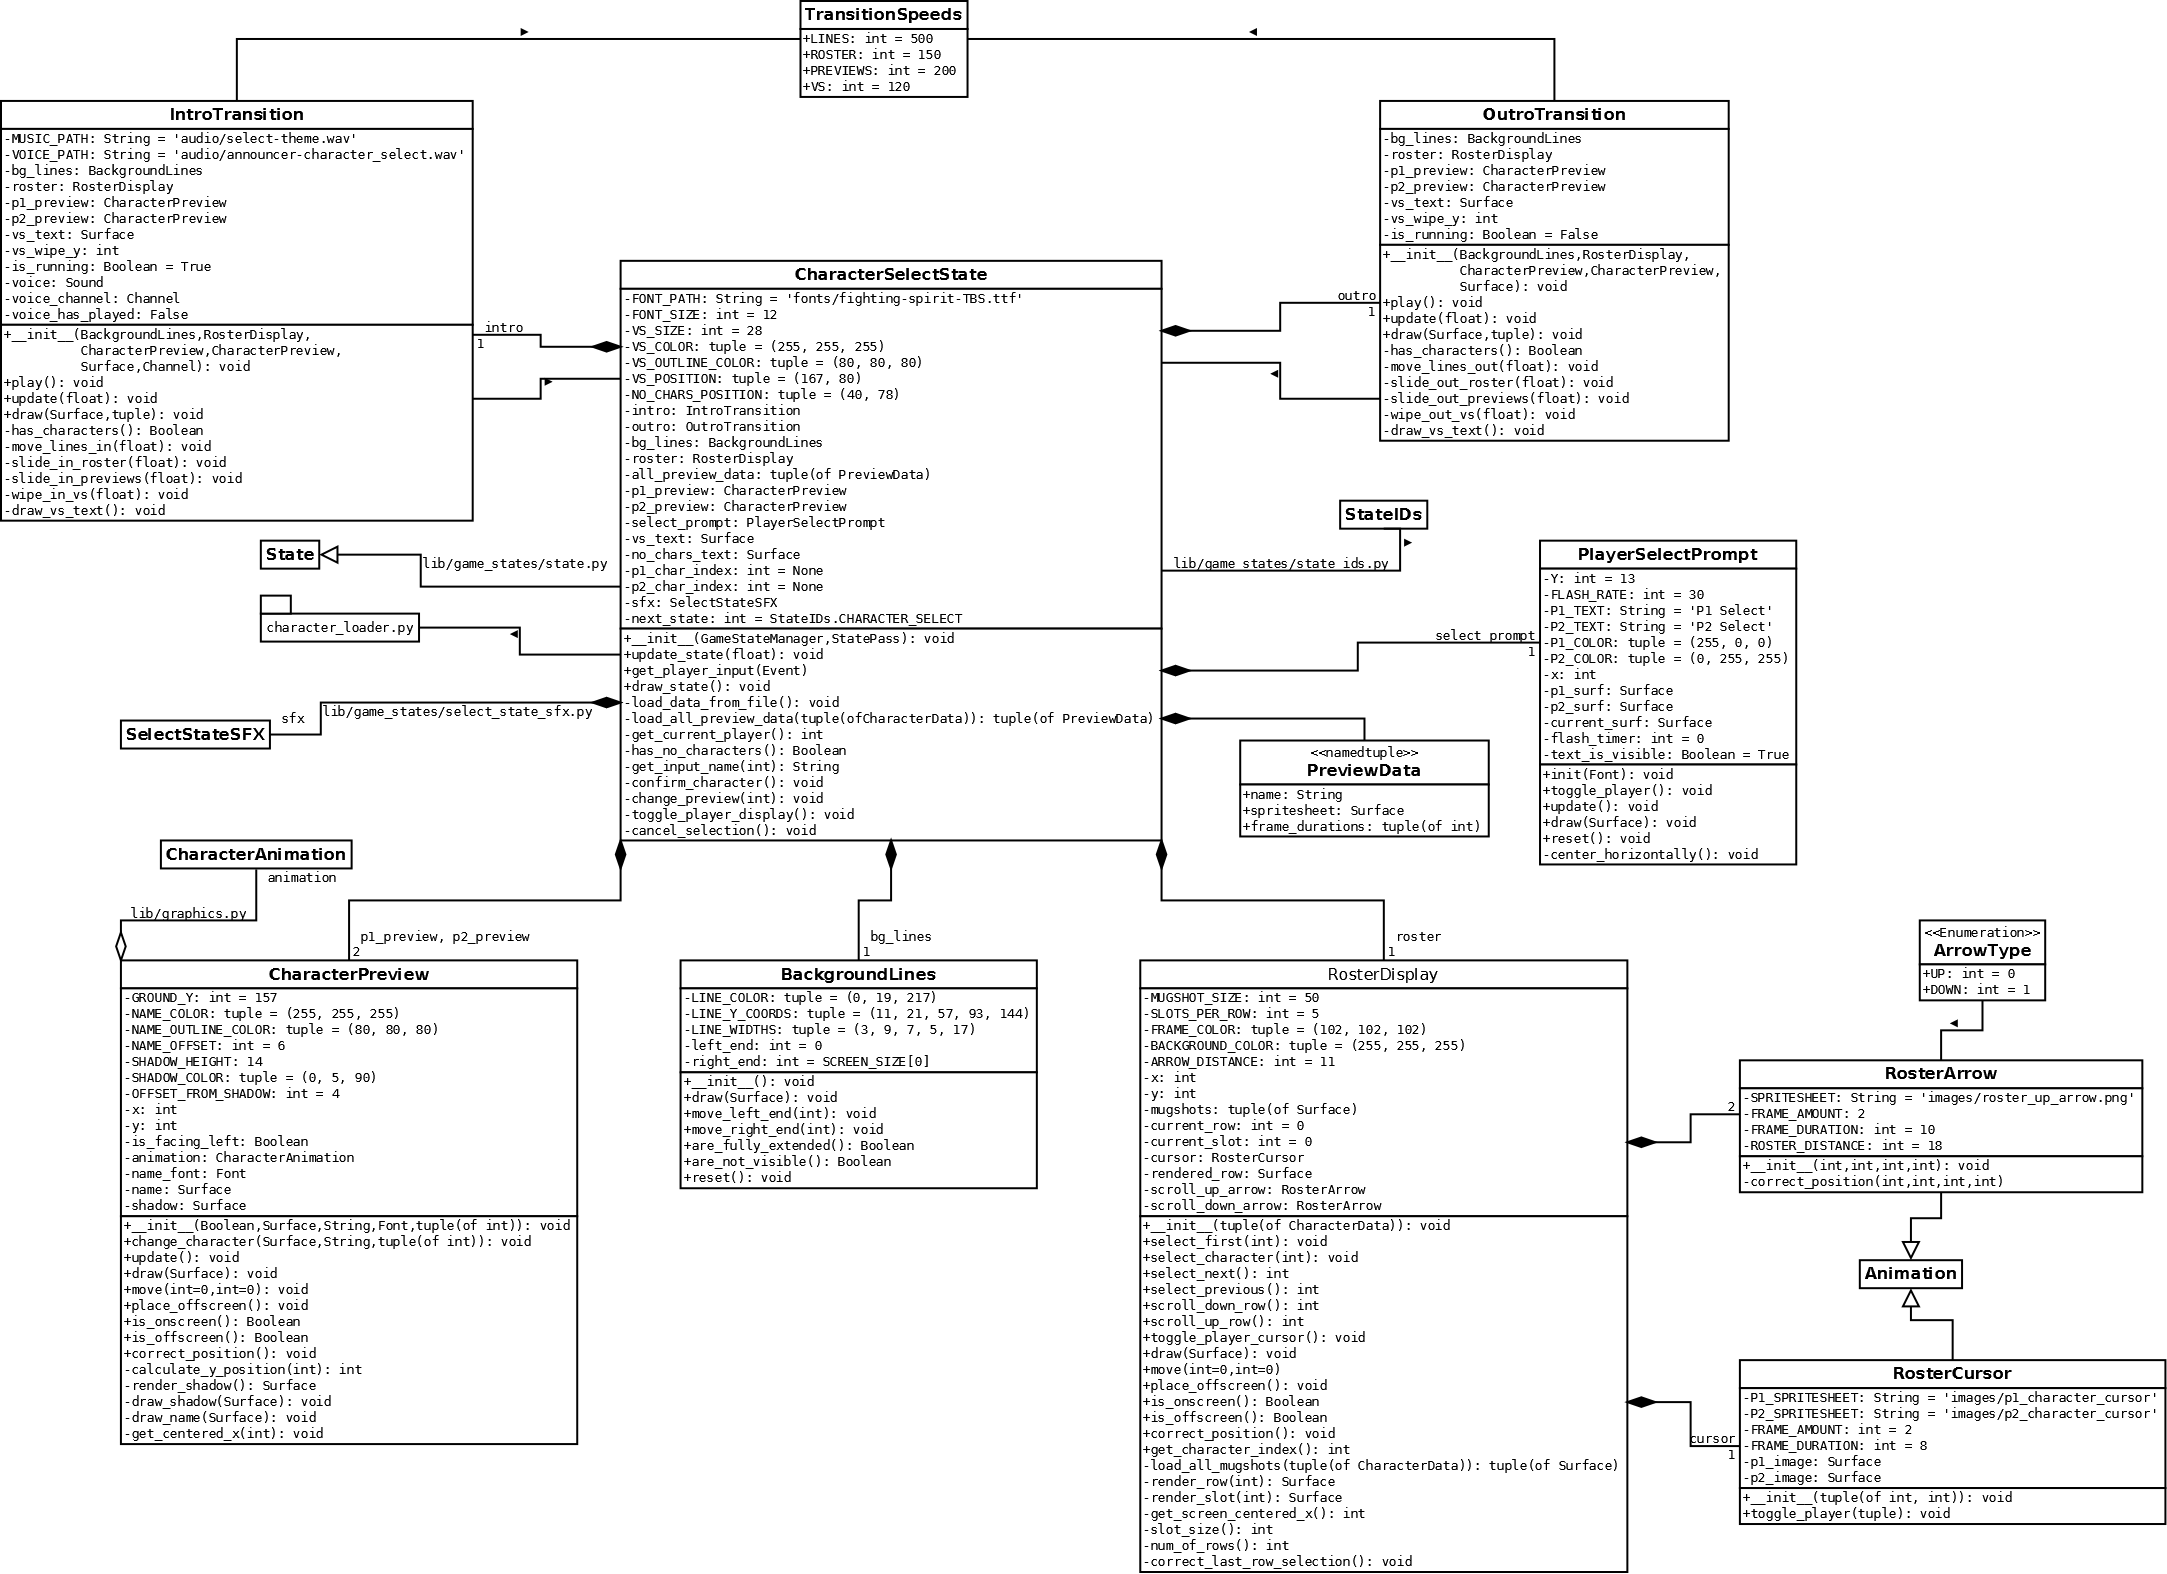
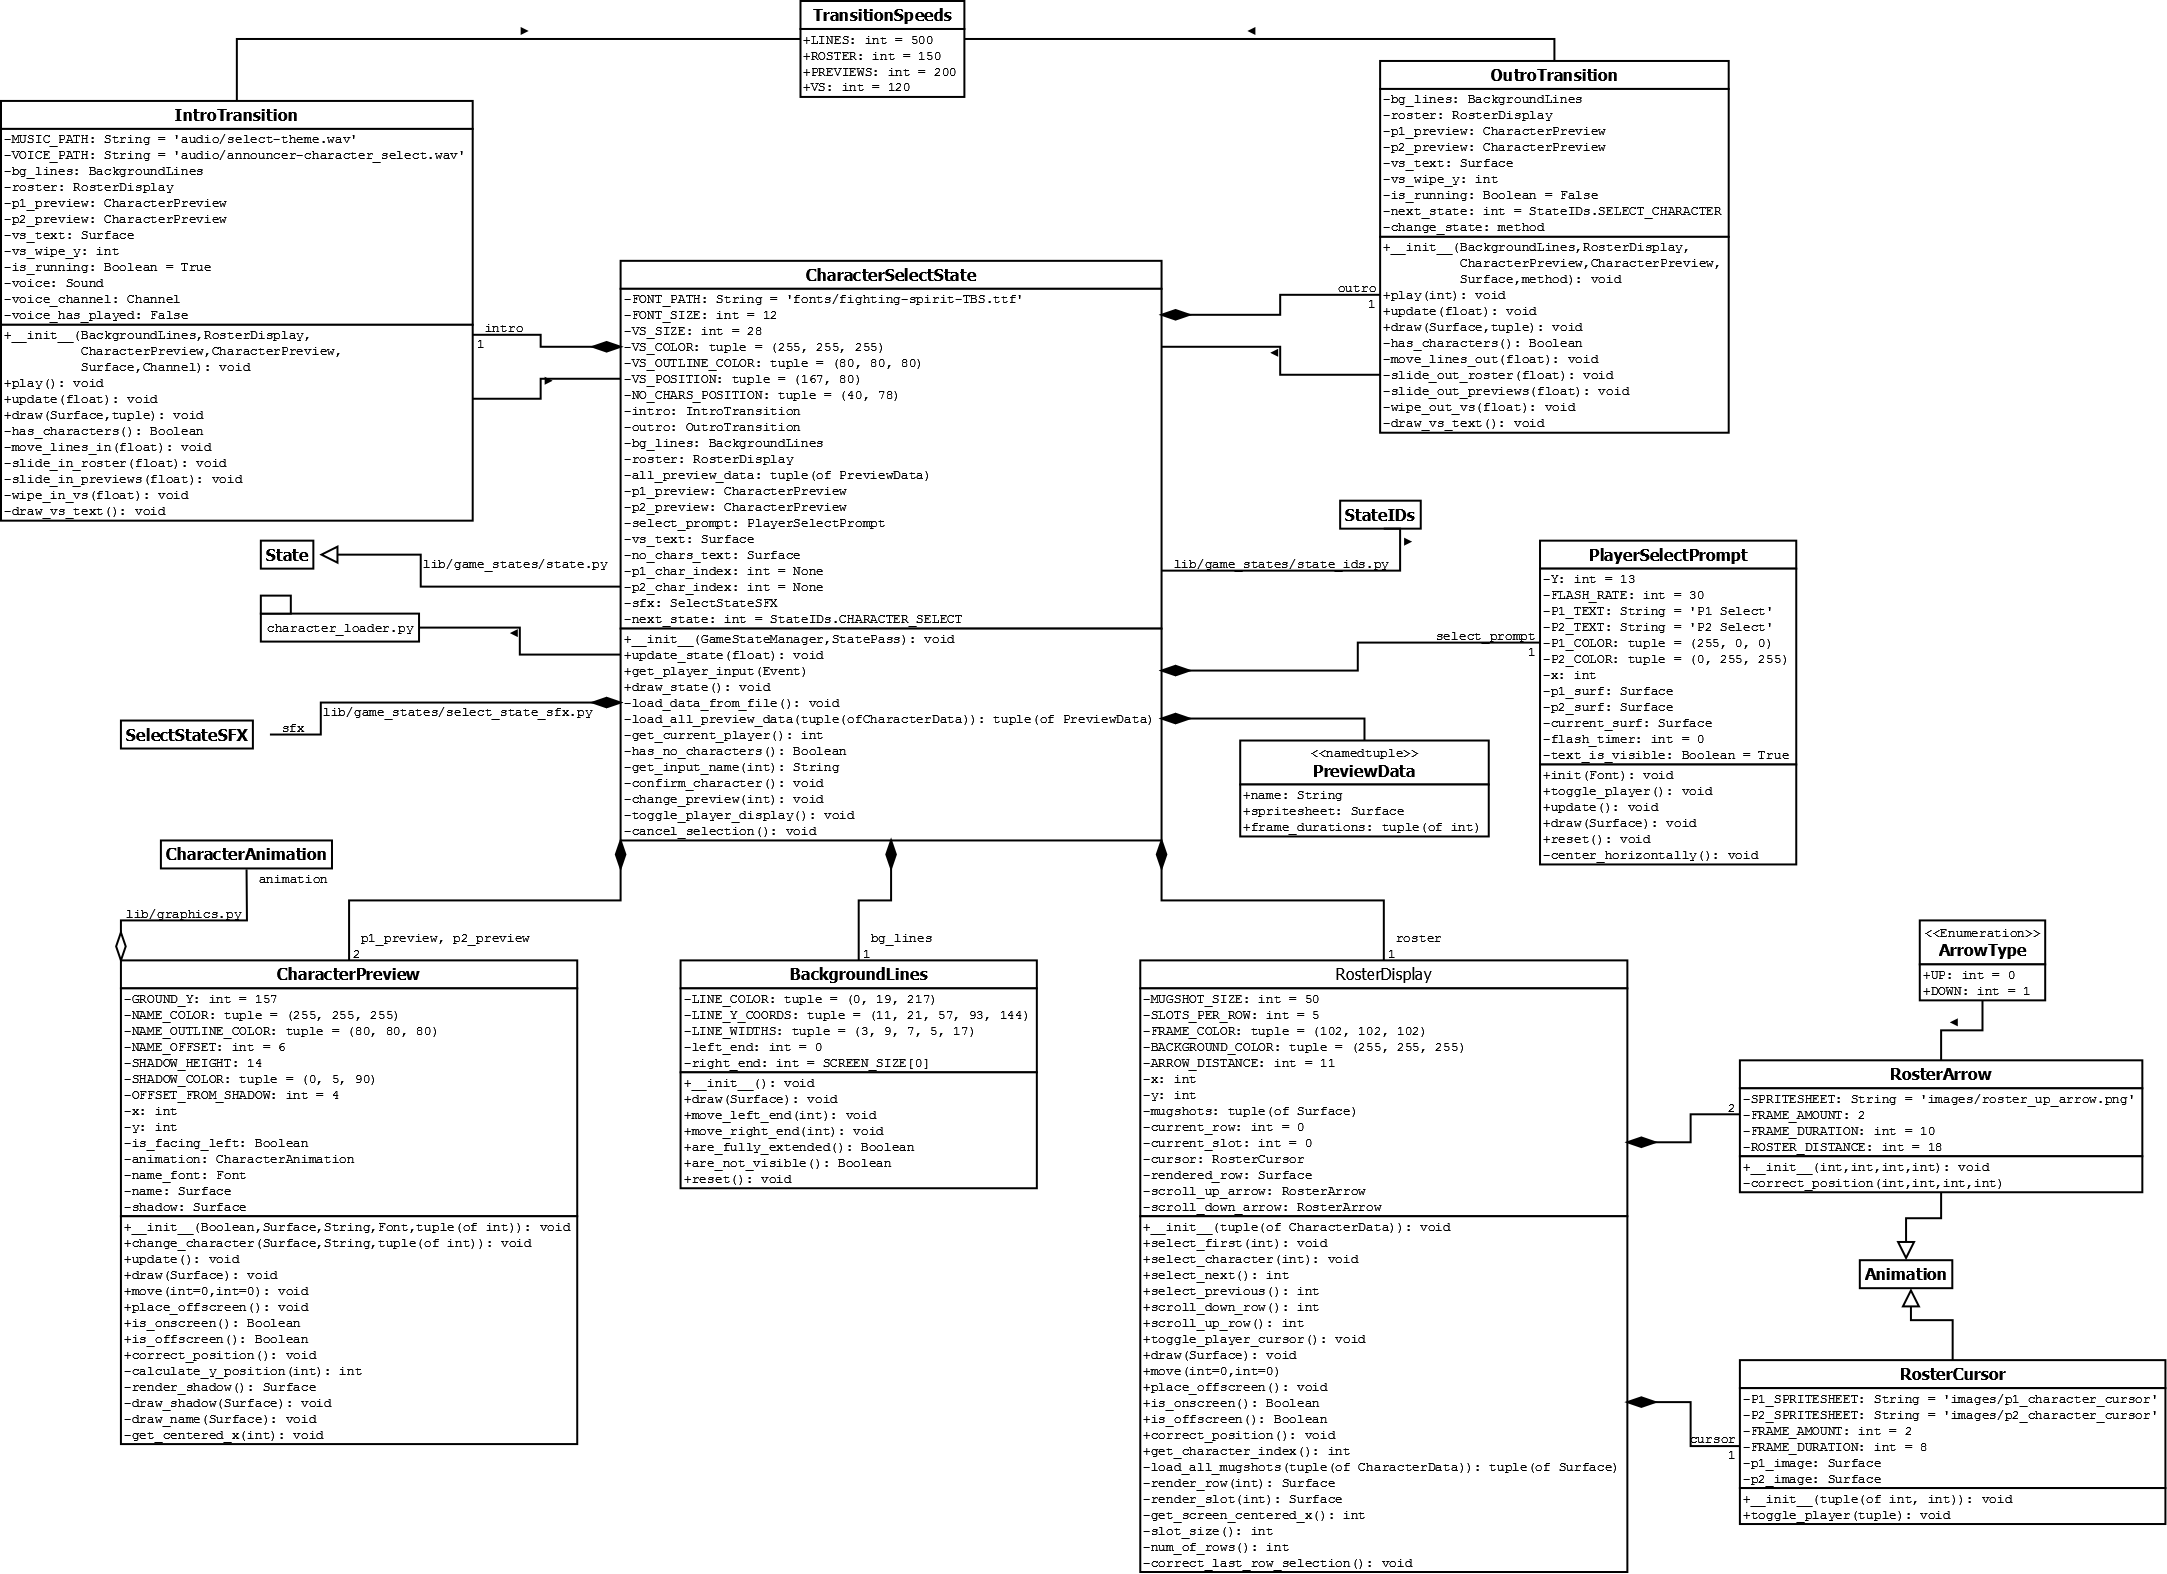
Handle State change through OutroTransition
The ID of the next State is passed through the play() method.
Once the animation is finished, change_state(), which is passed
to the class via init(), is called passing the next_state attribute.

This is a logical change because an outro always precedes a State
change; ergo, the outro itself should be responsible for deciding when
the State change happens.

diff --git a/lib/game_states/character_select_state.py b/lib/game_states/character_select_state.py
@@ -596,8 +596,13 @@ class OutroTransition(object):
             relative to the VS text Surface.
         is_running: A Boolean indicating whether the outro is currently
             running.
+        next_state: An integer for the index of the Game State to run once the
+            outro finishes. See the StateIDs enum for possible values.
+        change_state: A method that changes game processing to another Game
+            State.
     """
-    def __init__(self, bg_lines, roster, p1_preview, p2_preview, vs_text):
+    def __init__(self, bg_lines, roster, p1_preview, p2_preview, vs_text,
+                 change_state):
         """Declare and initialize instance variables.
 
         Args:
@@ -607,6 +612,8 @@ class OutroTransition(object):
             p1_preview: The CharacterPreview for Player 1.
             p2_preview: The CharacterPreview for Player 2.
             vs_text: A Surface containing text that reads VS.
+            change_state: A method that changes game processing to another Game
+                State.
         """
         self.bg_lines = bg_lines
         self.roster = roster
@@ -614,7 +621,9 @@ class OutroTransition(object):
         self.p2_preview = p2_preview
         self.vs_text = vs_text
         self.vs_wipe_y = 0
+        self.next_state = StateIDs.SELECT_CHARACTER
         self.is_running = False
+        self.change_state = change_state
 
 
 class PlayerSelectPrompt(object):
